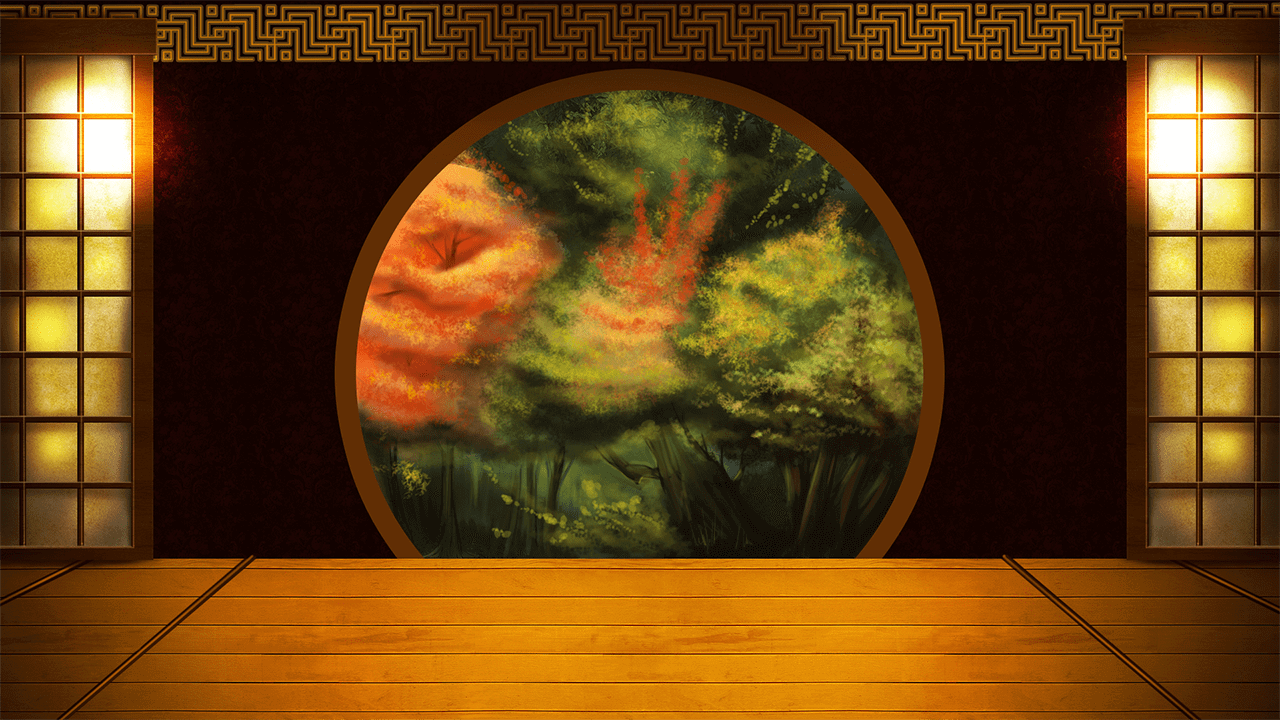
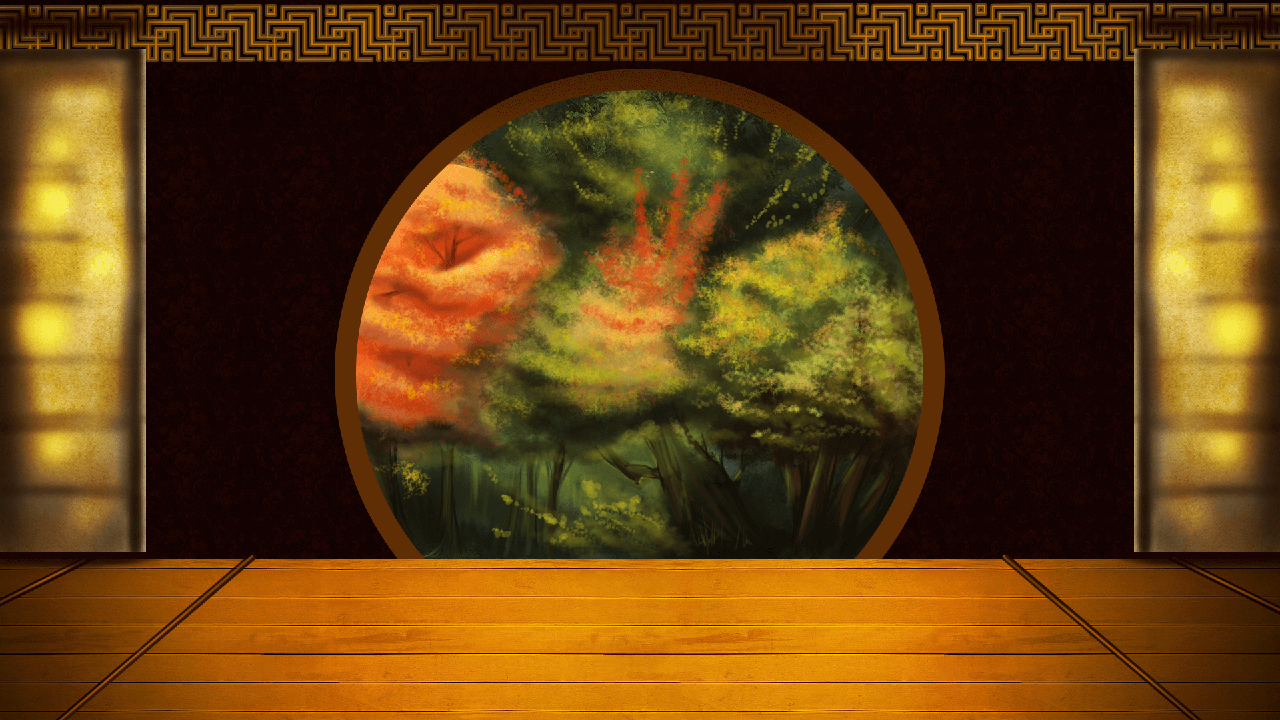
Add mobile shadows

diff --git a/markup/modules/States/FS/FSView.js b/markup/modules/States/FS/FSView.js
@@ -33,16 +33,19 @@ export let view = (() => {
             let mainBG = game.add.sprite(0, 0, 'fsBG', null, container);
             model.el('mainBG', mainBG);
 
-            if (model.desktop) {
-                let shadows = game.add.spine(game.world.centerX, game.world.centerY, 'shadows');
-                container.add(shadows);
-                model.el('shadows', shadows);
+            let shadows = game.add.spine(game.world.centerX, game.world.centerY, 'shadows');
+            container.add(shadows);
+            model.el('shadows', shadows);
 
-                let doorRight = game.add.sprite(game.width * 0.94, 545, 'doorRight', null, container);
-                let doorLeft = game.add.sprite(110, 545, 'doorLeft', null, container);
-                doorRight.anchor.set(0.5);
-                doorLeft.anchor.set(0.5);
-            }
+            let xRight = (model.desktop) ? game.width * 0.94 : game.width * 0.94;
+            let xLeft = (model.desktop) ? 110 : 75;
+            let y = (model.desktop) ? 545 : 370;
+
+            let doorRight = game.add.sprite(xRight, y, 'doorRight', null, container);
+            let doorLeft = game.add.sprite(xLeft, y, 'doorLeft', null, container);
+            doorRight.anchor.set(0.5);
+            doorLeft.anchor.set(0.5);
+
 
         },
 

diff --git a/markup/modules/States/Preload/PreloadController.js b/markup/modules/States/Preload/PreloadController.js
@@ -110,9 +110,9 @@ export class Preload {
         game.load.image('fsCountBG', 'fs/fsCountBG.png');
         game.load.atlasJSONArray('fsMulti', 'fs/fsMulti.png', 'fs/fsMulti.json');
         game.load.atlasJSONArray('fsMultiBig', 'fs/fsMultiBig.png', 'fs/fsMultiBig.json');
+        game.load.image('doorRight', 'bg/doorRight.png');
+        game.load.image('doorLeft', 'bg/doorLeft.png');
         if (model.desktop) {
-            game.load.image('doorRight', 'bg/doorRight.png');
-            game.load.image('doorLeft', 'bg/doorLeft.png');
             game.load.atlasJSONArray('star', 'fs/star.png', 'fs/star.json');
         }
     }
@@ -123,9 +123,8 @@ export class Preload {
         game.load.spine('ninja', 'spine/Ninja.json');
         game.load.spine('samurai', 'spine/Samurai.json');
         game.load.spine('ronin', 'spine/Ronin.json');
-        if (model.desktop) {
-            game.load.spine('shadows', 'spine/shadows.json');
-        }
+        game.load.spine('shadows', 'spine/shadows.json');
+
     }
 
     loadTest() {

diff --git a/markup/modules/States/FS/FSController.js b/markup/modules/States/FS/FSController.js
@@ -151,11 +151,9 @@ export class FS {
         fsView.draw.mainBG({});
         // Отрисовуем основной контейнер
         fsView.draw.mainContainer({});
-        if (model.desktop) {
-            game.time.events.add(3000, () => {
-                fsView.draw.addShadows({});
-            });
-        }
+        game.time.events.add(3000, () => {
+            fsView.draw.addShadows({});
+        });
         fsView.draw.machineContainer({});
         fsView.draw.lineNumbers({});
         winView.draw.UpWinContainer({});
